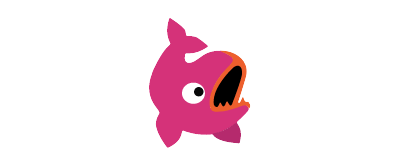
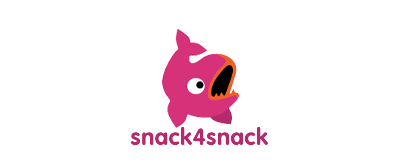
snack 4 snack
beta

Changed region(s): [[0.33, 0.1198, 0.69, 0.8982]]

diff --git a/snack.html b/snack.html
@@ -111,7 +111,7 @@
       
               <div class="mb-5">
               <div class="subheading mb-3">My Role</div>
-              <p>I am created this project by myself for my own entertainment.</p> <p> Timeline: 3 Weeks</p>
+              <p>I created this project my own entertainment while being furloughed. I sketched and used illustrator to finalize the logo the prototype is built in Adobe XD </p> <p> Timeline: 3 Weeks</p>
       </div>
       </div>
     </section>
@@ -134,7 +134,10 @@
 
 </div>
         
+<div class="#">
+  <img class="fit" src="img/snack/snack3sk.jpg" alt="snack sketches mobile">
 
+</div>
       
 
       </div>
@@ -143,7 +146,7 @@
 
     <hr class="m-0">
 
-    <section class="resume-section p-3 p-lg-5 d-flex justify-content-center" id="analysis">
+    <section class=" p-3 p-lg-5 d-flex justify-content-center" id="flow">
       <div class="w-100">
         <h2 class="mb-5 title">User Flow</h2>
 
@@ -151,7 +154,7 @@
           <p class="lead mb-5">The flow is to the point it shows the process for listing a snack offering a snack for a snack, adding and creating groups, adding members to the group. </p>
         </div>
         <div class="mb-5">
-            <img src="img/snack/flow.svg" alt="flow">
+            <img class="fit-65" src="img/snack/flow.svg" alt="flow">
           </div>
   
       
@@ -160,13 +163,13 @@
 
     <hr class="m-0">
 
-    <section class="resume-section p-3 p-lg-5 d-flex align-items-center" id="prototype">
+    <section class="p-3 p-lg-5 d-flex align-items-center" id="sitemap">
       <div class="w-100">
         <h2 class="mb-5 title">Sitemap</h2>
         <p class="lead mb-5">      Application sitemap </p>
 
         <div class="mb-5">
-       <img src="img/snack/map.svg" alt="sitemap">
+       <img class="fit-65" src="img/snack/map.svg" alt="sitemap">
     </div>
       
       </div>

diff --git a/index.html b/index.html
@@ -161,7 +161,7 @@
           </div>
         </div>
 
-        <div class="resume-item d-flex flex-column flex-md-row justify-content-between">
+        <div class="resume-item d-flex flex-column flex-md-row justify-content-between mb-5">
           <div class="resume-content">
             <h3 class="mb-0"><a href="javajustice.html">Java Justice case study</a></h3>
             <p><b>How might we curate a coffee experience that allows coffee lovers to give back to the farms that produce the product they love?</b></p>
@@ -169,7 +169,18 @@
               wireframes, hi-fidelity prototype, develop the shop page useing bootstrap. </p><blockquote> Timeline: 3 Weeks</blockquote>
           </div>
           <div class="resume-date text-md-right">
-            <span class="text-primary"><img class="fit" src="img/jj.png" alt="arms of love case study"></span>
+            <span class="text-primary"><img class="fit" src="img/jj.png" alt="arms of love case study mb-5"></span>
+          </div>
+        </div>
+
+        <div class="resume-item d-flex flex-column flex-md-row justify-content-between">
+          <div class="resume-content">
+            <h3 class="mb-0"><a href="snack.html">Snack4Snack fun project</a></h3>
+            <p><b>How might we make diversify the office snacking practices?</b></p>
+            <p><b class="role">My Role:</b> I created this project my own entertainment while being furloughed. I sketched and used illustrator to finalize the logo the prototype is built in Adobe XD </p><blockquote> Timeline: 2~ Weeks</blockquote>
+          </div>
+          <div class="resume-date text-md-right">
+            <span class="text-primary"><img class="fit" src="img/snackc.png" alt="snack4snack logo"></span>
           </div>
         </div>
 
